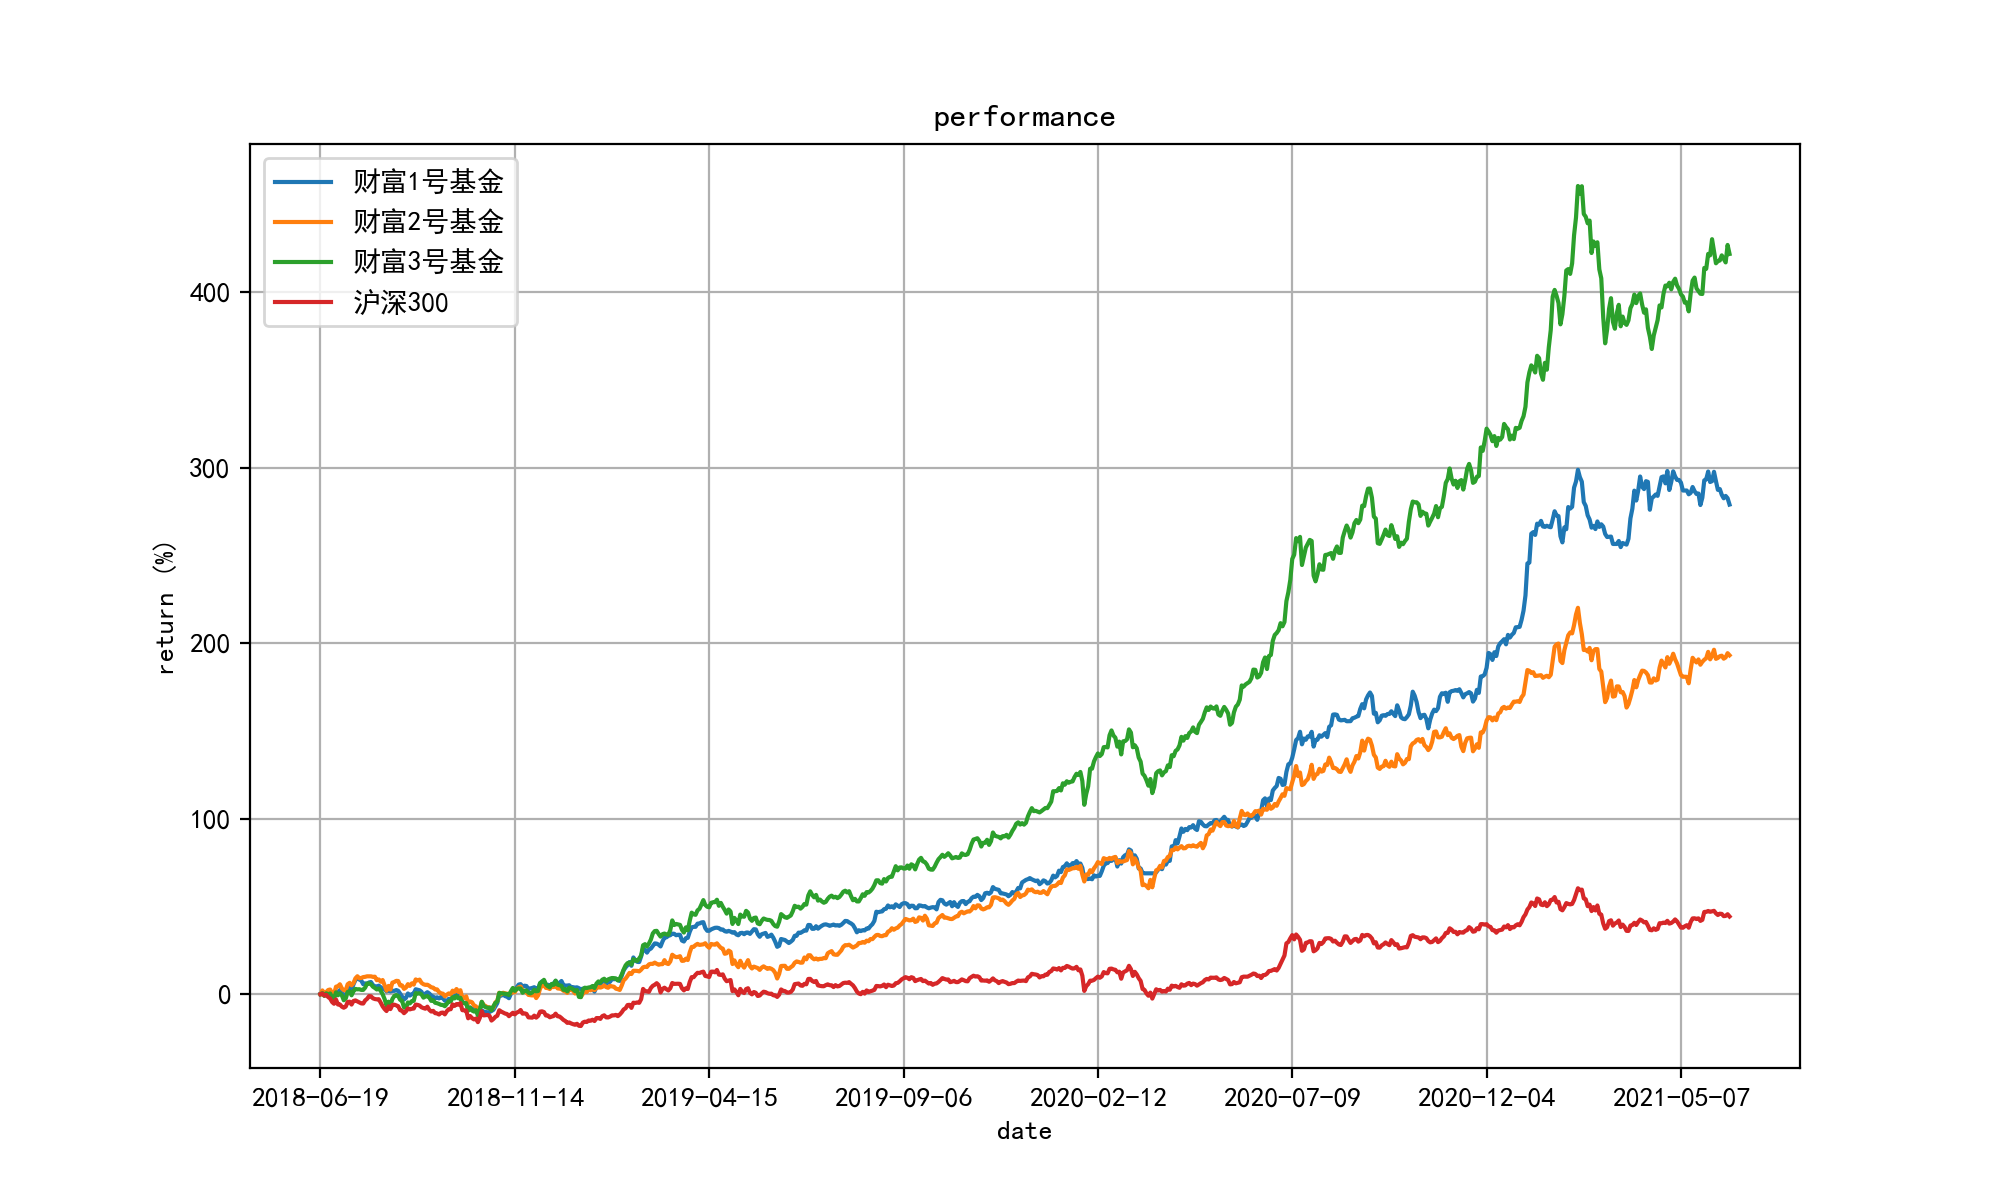
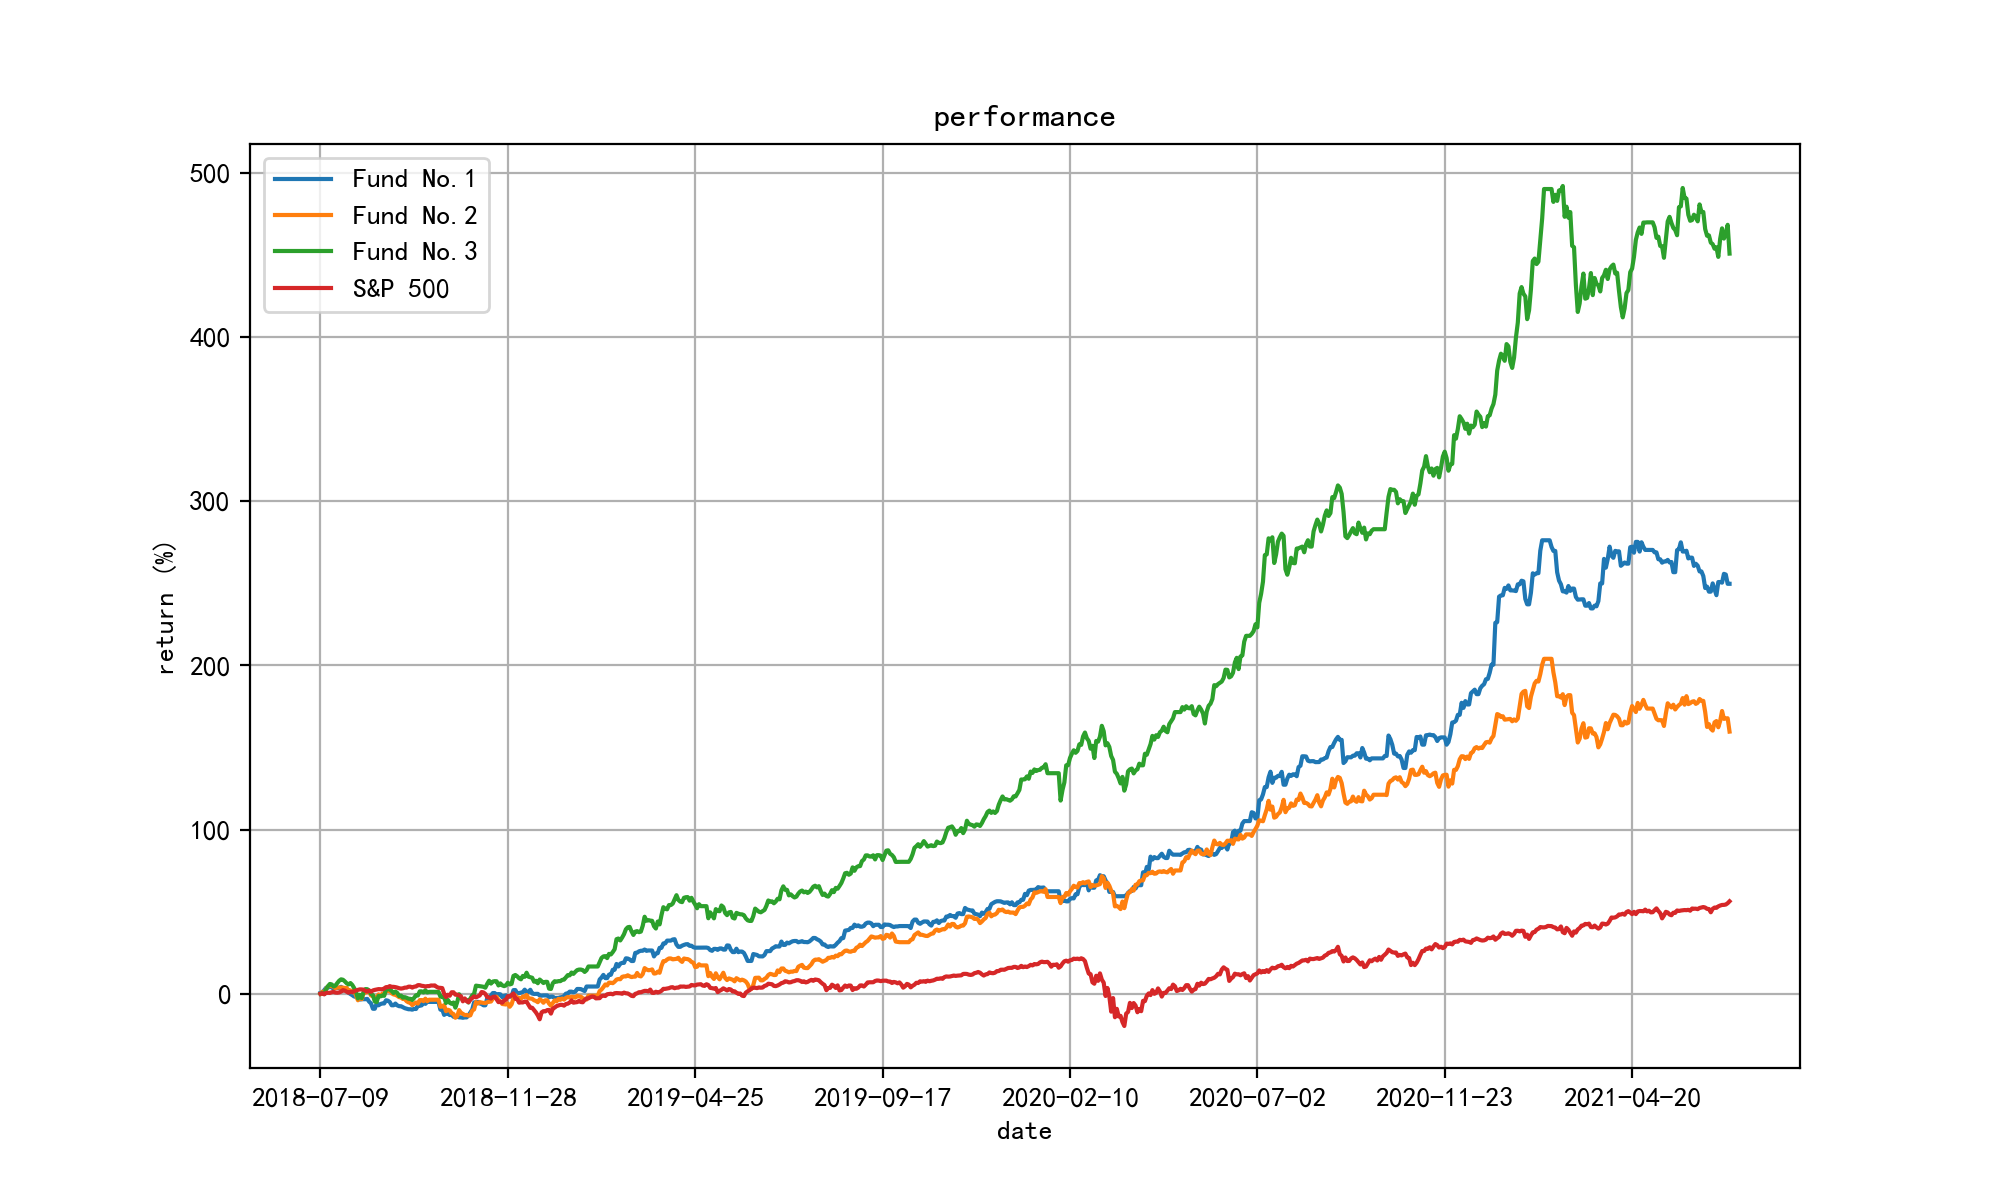
refactoring

diff --git a/strategy/mystrategy.py b/strategy/mystrategy.py
@@ -1,15 +1,18 @@
-
+# -*- coding: utf-8; py-indent-offset:4 -*-
 import pandas as pd
 import talib
+import hiquant as hq
 
-from hiquant import *
-
-class MyStrategyMacd( BasicStrategy ):
+class MyStrategy( hq.BasicStrategy ):
     def __init__(self, fund):
         super().__init__(fund, __file__)
+        self.max_stocks = 10
+        self.max_weight = 1.2
+        self.stop_loss = 1 + (-0.10)
+        self.stop_earn = 1 + (+0.20)
 
     def select_stock(self):
-        return ['600036', '300122', '600519', '300357', '601888']
+        return ['AAPL', 'MSFT', 'AMZN', 'TSLA', '0700.HK']
 
     def gen_trade_signal(self, symbol, init_data = False):
         market = self.fund.market
@@ -19,16 +22,21 @@ class MyStrategyMacd( BasicStrategy ):
             df = market.get_daily(symbol, end = market.current_date, count = 26+9)
 
         dif, dea, macd_hist = talib.MACD(df.close, fastperiod=12, slowperiod=26, signalperiod=9)
-        return pd.Series( CROSS(dif, dea), index=df.index )
+        return pd.Series( hq.CROSS(dif, dea), index=df.index )
 
     def get_signal_comment(self, symbol, signal):
-        return 'MACD 金叉' if (signal > 0) else 'MACD 死叉'
-
-    def before_market_open(self, param = None):
-        pass
-
-    def after_market_close(self, param = None):
-        pass
+        return 'MACD golden cross' if (signal > 0) else 'MACD dead cross'
 
 def init(fund):
-    strategy = MyStrategyMacd(fund)
+    strategy = MyStrategy(fund)
+
+if __name__ == '__main__':
+    backtest_args = dict(
+        #start_cash= 1000000.00,
+        #date_start= hq.date_from_str('3 years ago'),
+        #date_end= hq.date_from_str('yesterday'),
+        #out_file= 'output/demo.png',
+        #parallel= True,
+        compare_index= '^GSPC',
+    )
+    hq.backtest_strategy( MyStrategy, **backtest_args )

diff --git a/hiquant/data_source/yahoo.py b/hiquant/data_source/yahoo.py
@@ -36,7 +36,7 @@ def download_us_stock_daily( symbol, start= None, end= None, interval= '1d', adj
     url_template = 'https://query1.finance.yahoo.com/v7/finance/download/{}?period1={}&period2={}&interval={}&events=history&includeAdjustedClose=true'
     url = url_template.format(symbol, start, end, interval)
 
-    print('\rfetching history data ...', end = '', flush = True)
+    print('\rfetching history data {} ...'.format(symbol), end = '', flush = True)
     r = requests.get(url, headers= yahoo_headers)
     print('')
 

diff --git a/hiquant/version.py b/hiquant/version.py
@@ -4,7 +4,7 @@ from __future__ import (absolute_import, division, print_function, unicode_liter
 import os
 import sys
 
-__version__ = '0.3.623'
+__version__ = '0.3.624'
 
 __hqversion__ = tuple(int(x) for x in __version__.split('.'))
 

diff --git a/hiquant/cli/cli_strategy.py b/hiquant/cli/cli_strategy.py
@@ -50,8 +50,8 @@ if __name__ == '__main__':
         #parallel= True,
         compare_index= '^GSPC',
     )
-
     hq.backtest_strategy( MyStrategy, **backtest_args )
+
 '''
 
 def cli_strategy_create(params, options):
